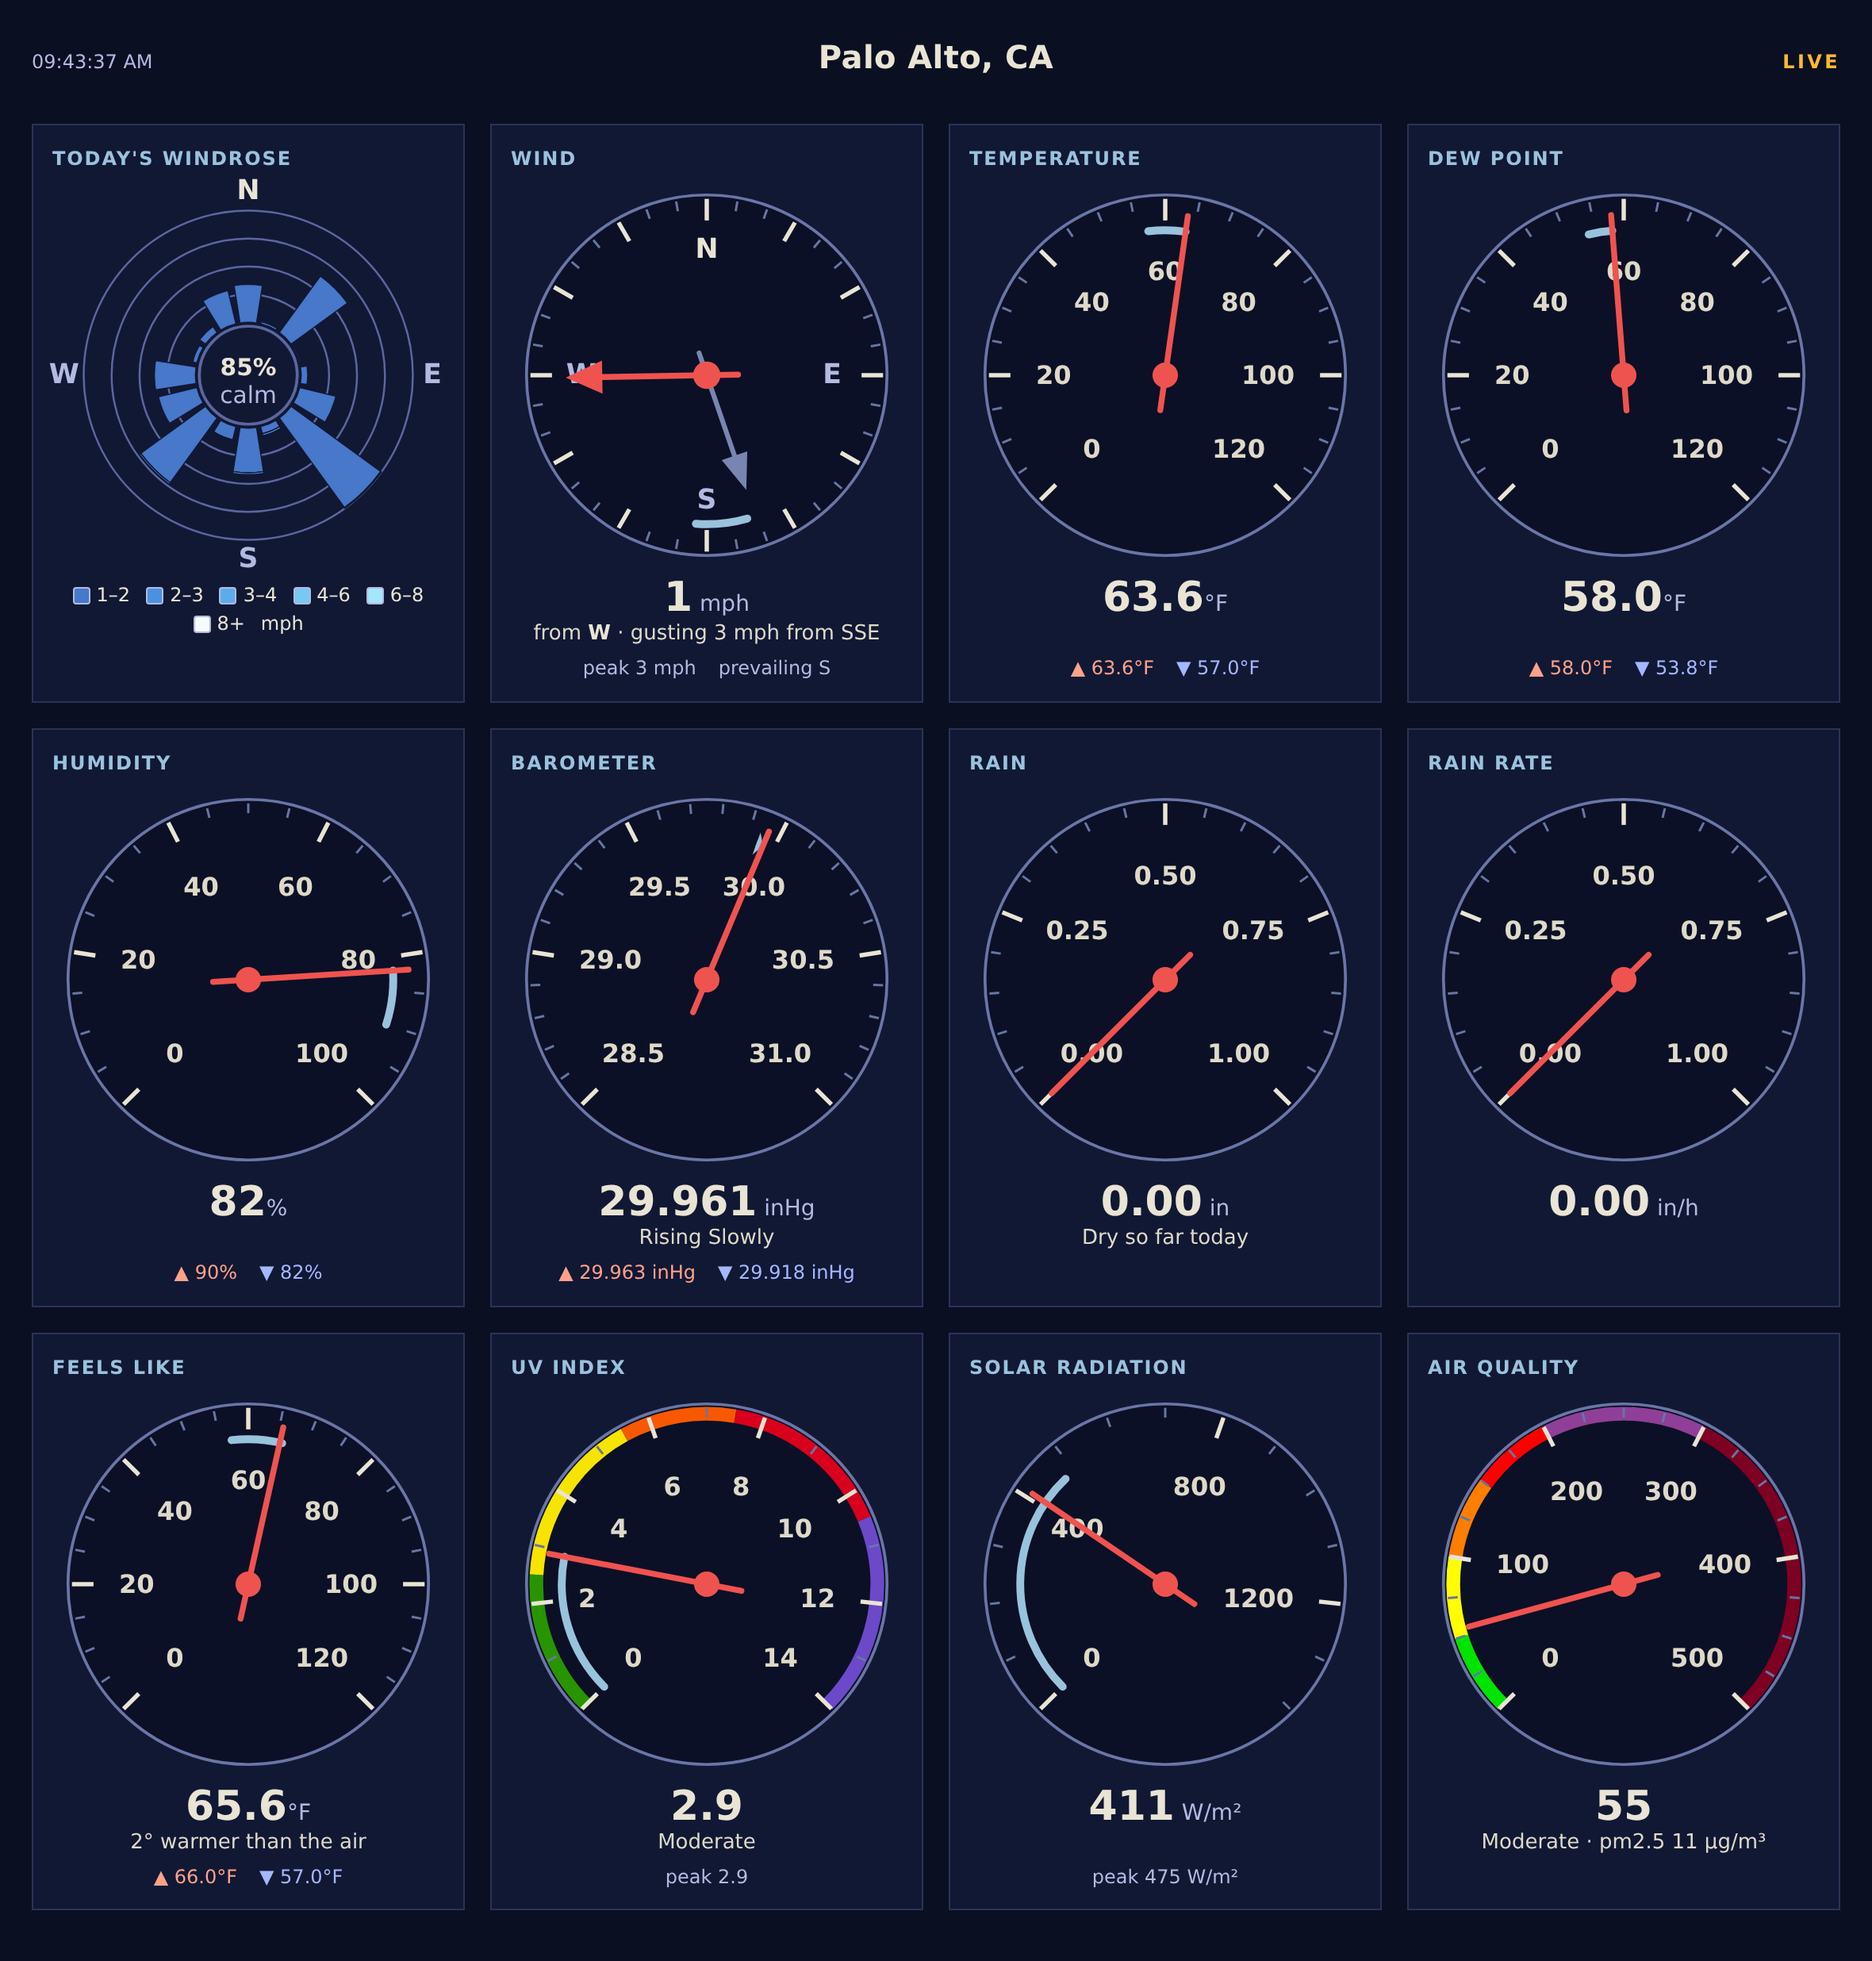
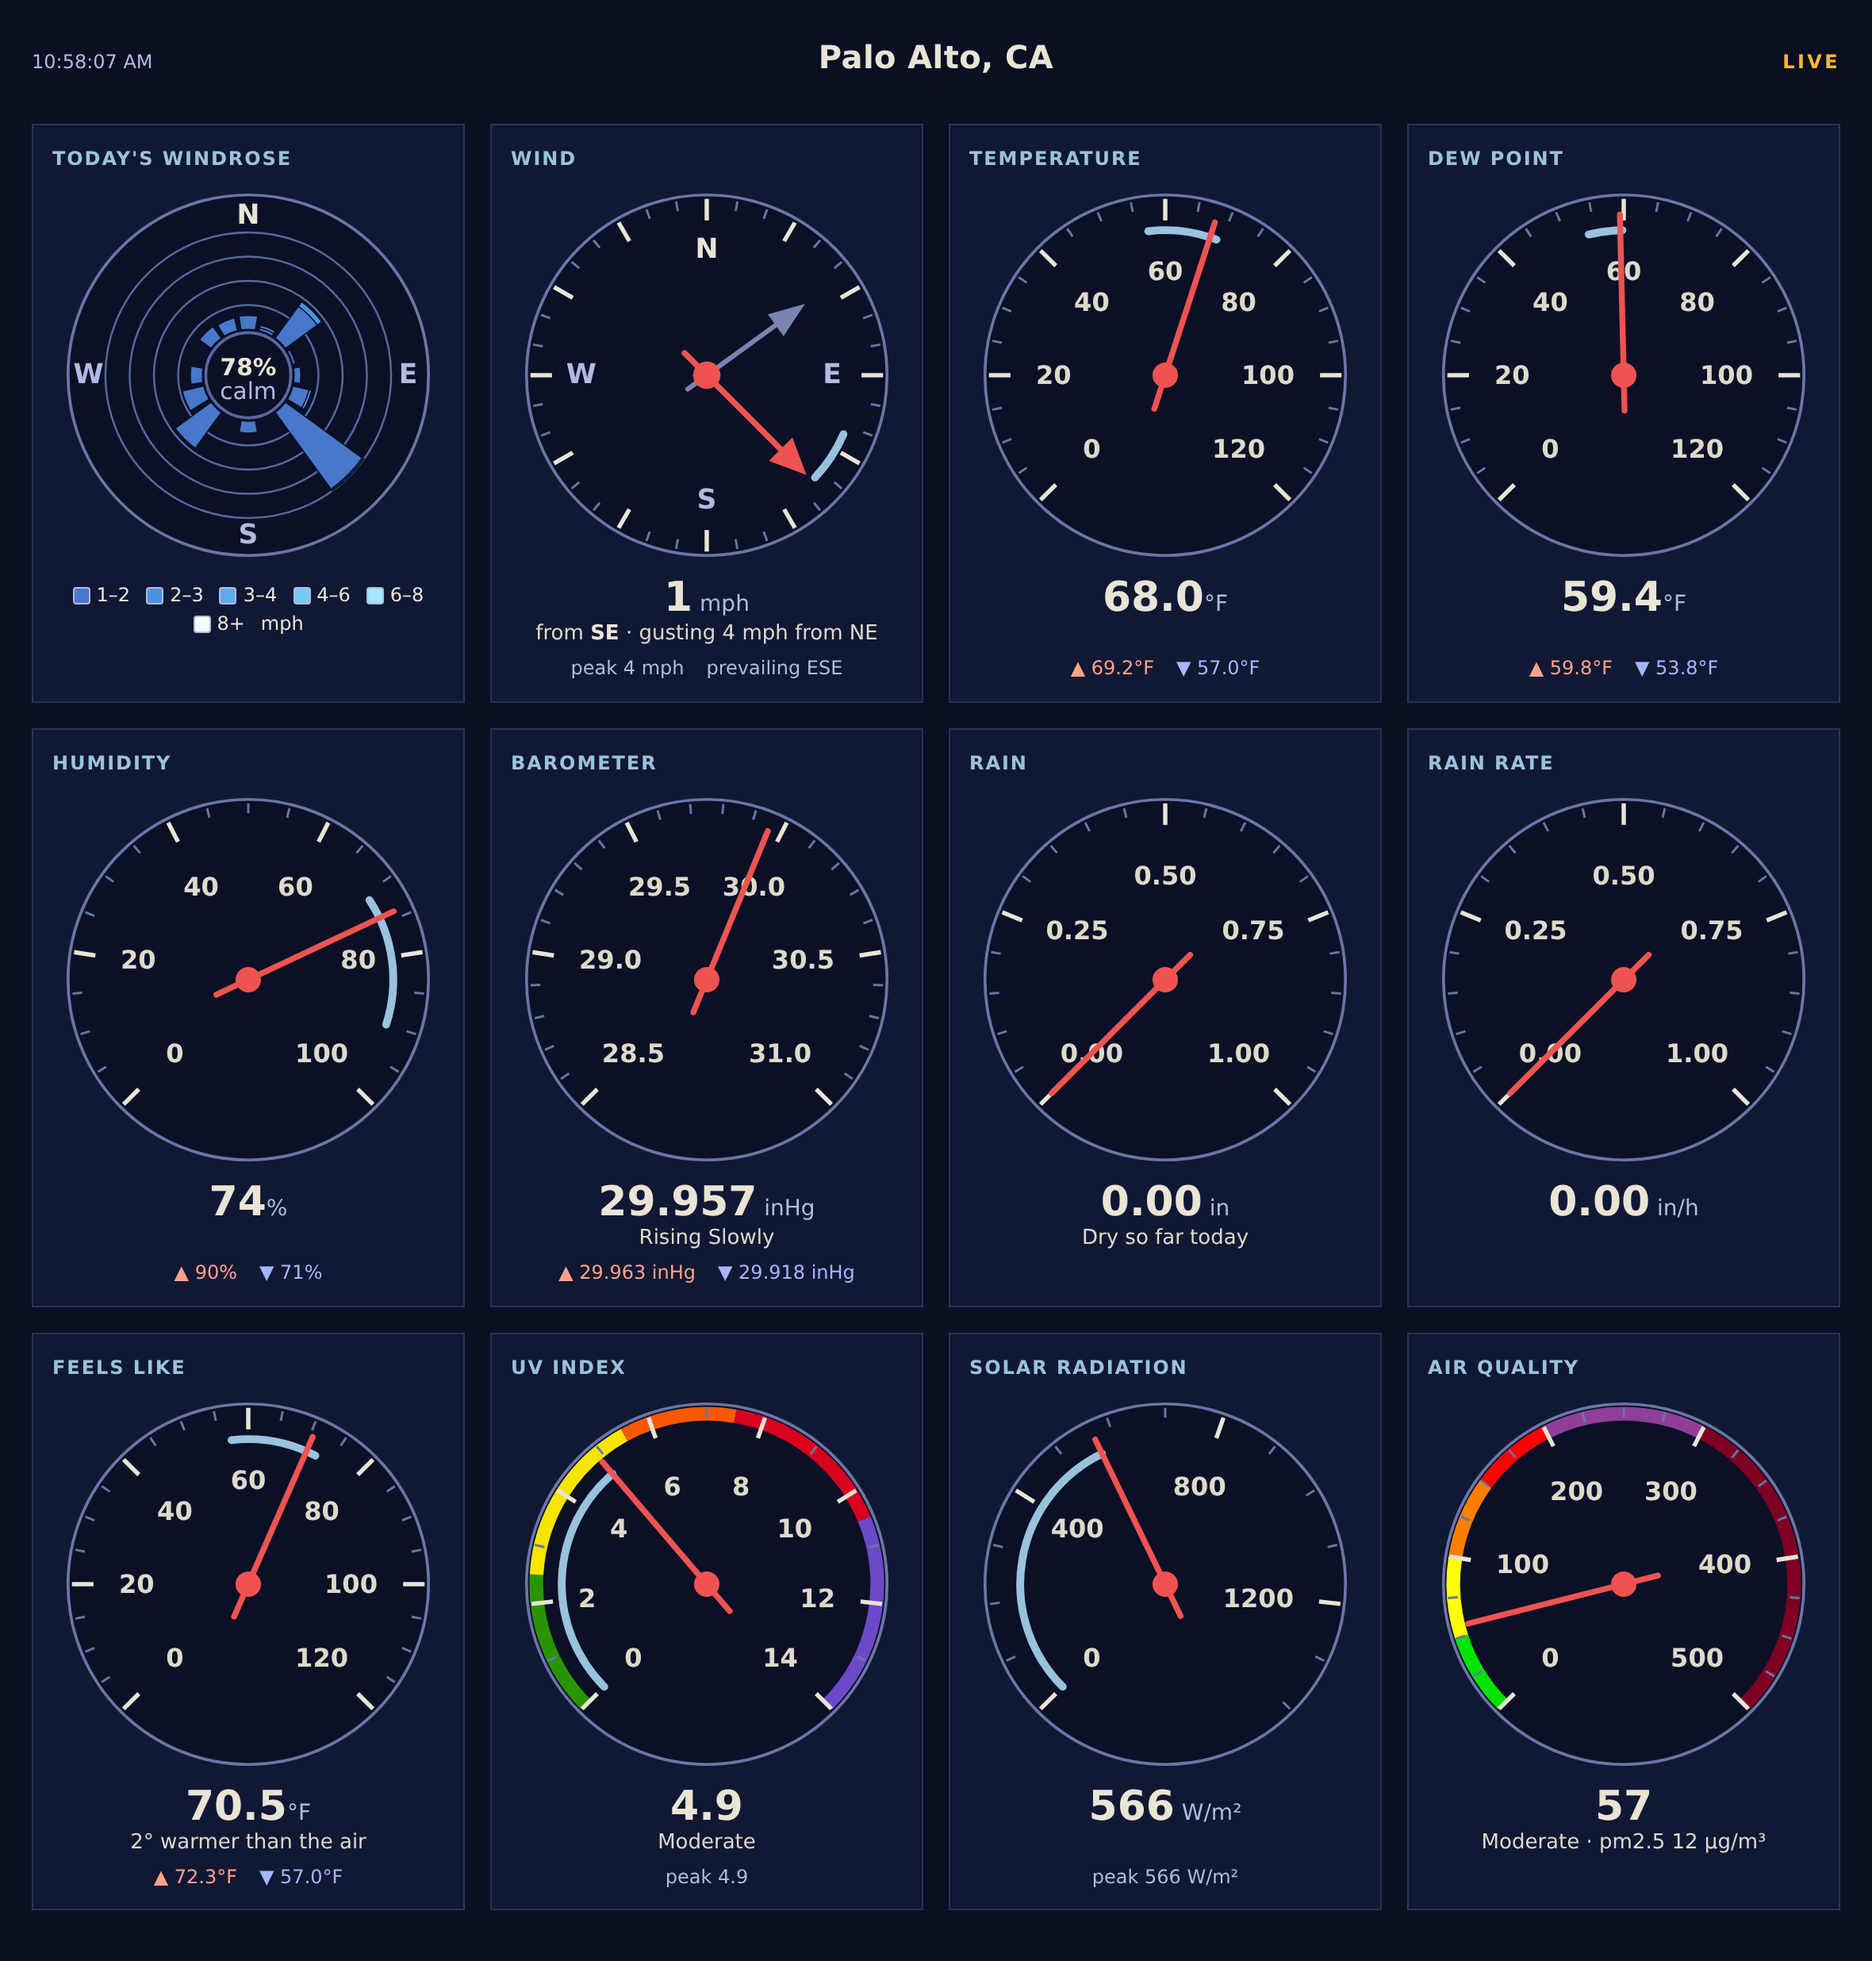
The sample report's windrose sits on a dial face of its own, rimmed like the gauges beside it and exactly their size, with its letters and lines drawn to match theirs; its light-theme rings are a shade darker to stand out on the face.  Release 7.5.1.

diff --git a/tests/test_process_packet.py b/tests/test_process_packet.py
@@ -8685,12 +8685,12 @@ class ProcessPacketTests(unittest.TestCase):
         ('needle', 'face', 3.0), ('range', 'face', 3.0), ('tick', 'face', 3.0),
         ('gust', 'face', 3.0),
         # The face stands barely off its card, so the rim draws the disc;
-        # the windrose sits on the card, where its calmest band and the
-        # legend's swatch edges must show.
-        ('rim', 'card', 3.0), ('rose1', 'card', 3.0), ('swatch-edge', 'card', 3.0),
-        # The windrose's rings: 1.26:1 in dark and 1.37:1 in light when they
-        # were a hairline, and all but invisible.
-        ('ring', 'card', 3.0),
+        # the legend's swatch edges sit on the card.
+        ('rim', 'card', 3.0), ('swatch-edge', 'card', 3.0),
+        # The windrose sits on a face of its own, where its calmest band
+        # and its rings must show.  The rings were 1.26:1 in dark and
+        # 1.37:1 in light as a hairline, and all but invisible.
+        ('rose1', 'face', 3.0), ('ring', 'face', 3.0),
     )
 
     @staticmethod

diff --git a/install.py b/install.py
@@ -280,7 +280,7 @@ def loader():
 class LoopDataInstaller(ExtensionInstaller):
     def __init__(self):
         super(LoopDataInstaller, self).__init__(
-            version = "7.5",
+            version = "7.5.1",
             name = 'loopdata',
             description = 'Loop statistics for real time reporting.',
             author = "John A Kline",

diff --git a/bin/user/loopdata.py b/bin/user/loopdata.py
@@ -58,7 +58,7 @@ from weewx.engine import StdService
 # get a logger object
 log = logging.getLogger(__name__)
 
-LOOP_DATA_VERSION = '7.5'
+LOOP_DATA_VERSION = '7.5.1'
 
 if sys.version_info[0] < 3 or (sys.version_info[0] == 3 and sys.version_info[1] < 7):
     raise weewx.UnsupportedFeature(

diff --git a/docs/sample-skin.md b/docs/sample-skin.md
@@ -56,9 +56,10 @@ follows this report's units and formatting (metric or US, and its decimal
 point) like any other loopdata page.  The numerals on the dials use the
 same decimal point.  The panel scales with the window: four cards to a
 row, three below 1080 pixels, two below 800 and one below 540.  Each
-drawing is a 200-unit square stretched to its card, so its lines and words
-grow together (drawings cap at 480px), and the words under it grow with
-the card.
+drawing is a square stretched to its card, so its lines and words grow
+together (drawings cap at 480px), and the words under it grow with the
+card.  Every gauge's face, the windrose's included, comes out the same
+size.
 
 The fields the panel reads are declared in `skins/LoopData/skin.conf`,
 one group per gauge (see [Declaring fields](declaring-fields.html)), and

diff --git a/changes.md b/changes.md
@@ -1,5 +1,14 @@
 # weewx-loopdata change history
 
+## 7.5.1 2026/09/23
+- The sample report's windrose sits on a dial face of its own, rimmed
+  like the gauges beside it with the compass letters inside, and that face
+  is exactly the size of theirs; in 7.5 the rose was drawn straight on its
+  card and came out a different size from the dials in its row.  Its
+  letters and its lines -- the rim, the rings, the hub's edge -- are drawn
+  the same size on screen as the dials' too.  Its rings are a shade
+  darker in the light theme, so they still stand out against the face.
+
 ## 7.5 2026/09/23
 - The sample report's gauges are redrawn.  Each is a card: the dial,
   then under it the reading, a line saying what it means, and today's
